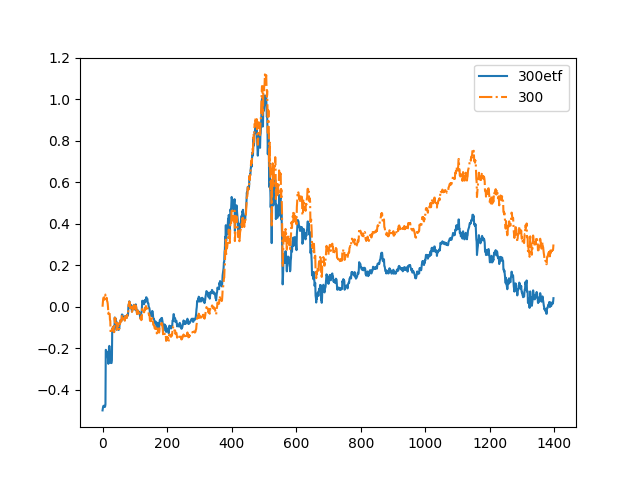
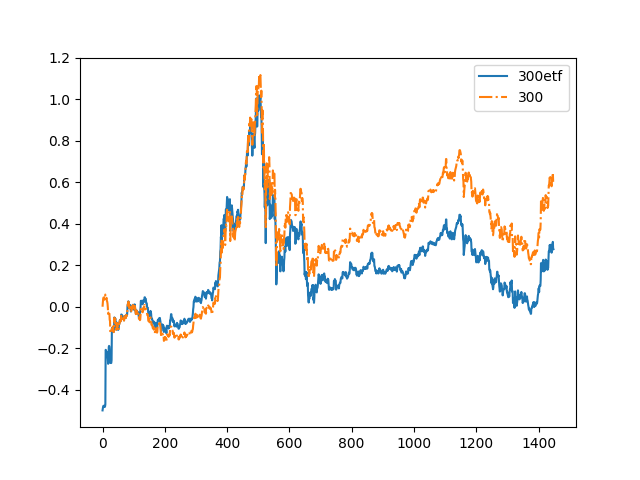
把获取历史数据的函数独立出来了，数据更新到最近的了

diff --git a/GetHistoryData.py b/GetHistoryData.py
@@ -1,0 +1,49 @@
+# -*- coding:utf-8 -*-
+# 获取历史数据
+
+import tushare as ts
+import os
+
+
+#将八位数字的日期转换为yyyy-mm-dd
+def TransfDate(d):
+    year = int(d/10000)
+    month = int((d - year*10000)/100)
+    day = int((d - year*10000 - month*100))
+    date = format("%4d-%02d-%02d" % (year, month, day))
+    return date
+    
+
+#上面函数的逆操作，将日期转化为数字
+def TransfDate2(s):
+    year = int(s[0:4])
+    month = int(s[5:7])    
+    day = int(s[8:11])
+    date = year*10000+month*100+day
+    return date
+
+
+# 获取历史数据
+def GetHistoryData(Code, BeginTime, EndTime):
+    df = ts.get_k_data(Code, index = False,  start = TransfDate(BeginTime), end = TransfDate(EndTime))
+    return df
+    
+    
+# 更新数据
+def updateData(endTime):
+    beginTime = 20130515
+    if endTime <= beginTime:
+        print("结束时间必须大于20130515，程序将结束。")
+        os.exit(1)
+        return
+    etf300 = GetHistoryData("510300", beginTime, endTime)
+    etfnas = GetHistoryData("513100", beginTime, endTime)
+    #保存文件
+    etf300.to_csv("df_300_hist.csv")
+    etfnas.to_csv("df_nas_hist.csv")
+    
+    
+if __name__ == "__main__":
+    updateData(20190423)
+    print("历史数据获取成功")
+    

diff --git a/etfdata.py b/etfdata.py
@@ -422,15 +422,15 @@ if __name__=="__main__":
 #    fig = plt.figure()
 #    plt.plot(shaper)
 #    fig.savefig("montecarlo_shaper.png")
-    #获取从2013年5月15日至2019年02月01日的数据
+    #获取从2013年5月15日至2019年04月23日的数据
     #beginTime = 20130515
-#    endTime = 20190201
+#    endTime = 20190423
 #    etf300 = etfdata.GetHistoryData("510300", beginTime, endTime)
 #    etfnas = etfdata.GetHistoryData("513100", beginTime, endTime)
 #    print(len(etf300), len(etfnas))
-#    #保存文件
-#    etf300.to_csv("df_300_hist.csv")
-#    etfnas.to_csv("df_nas_hist.csv")
+    #保存文件
+    etf300.to_csv("df_300_hist.csv")
+    etfnas.to_csv("df_nas_hist.csv")
     #读取数据
     df_300 = pd.read_csv("df_300_hist.csv")
     df_nas = pd.read_csv("df_nas_hist.csv")
